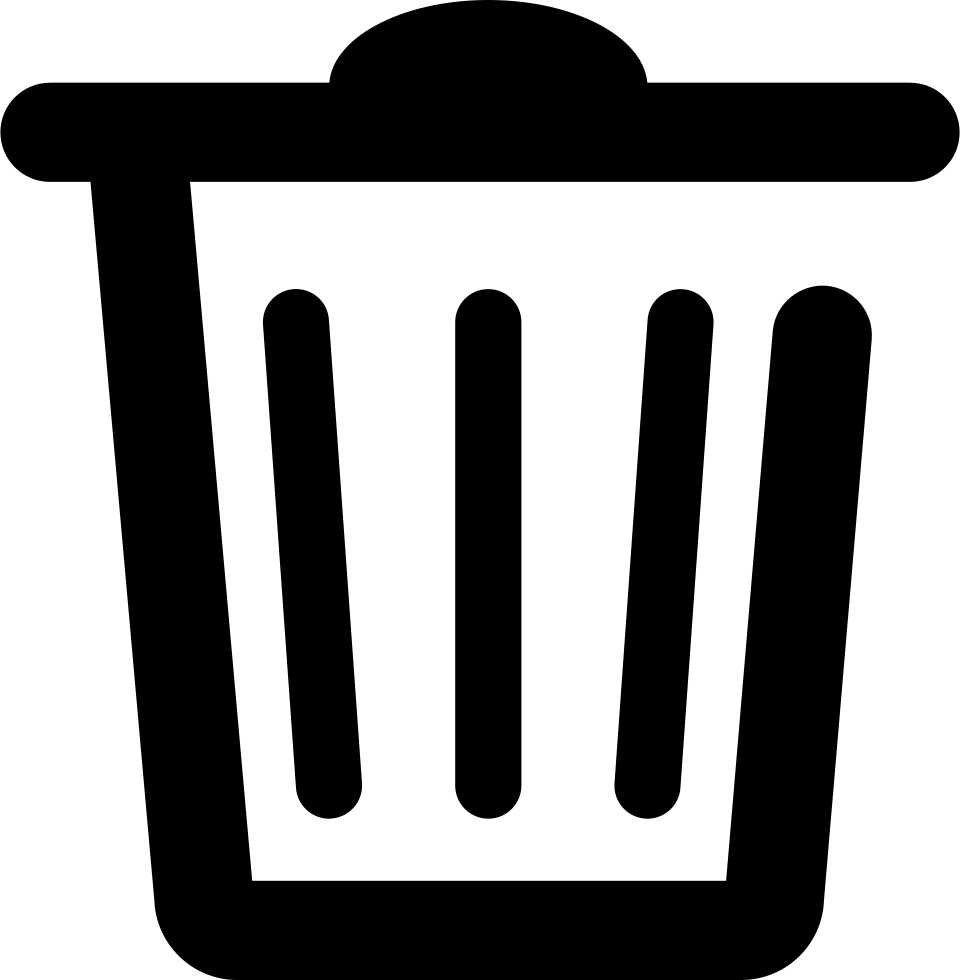
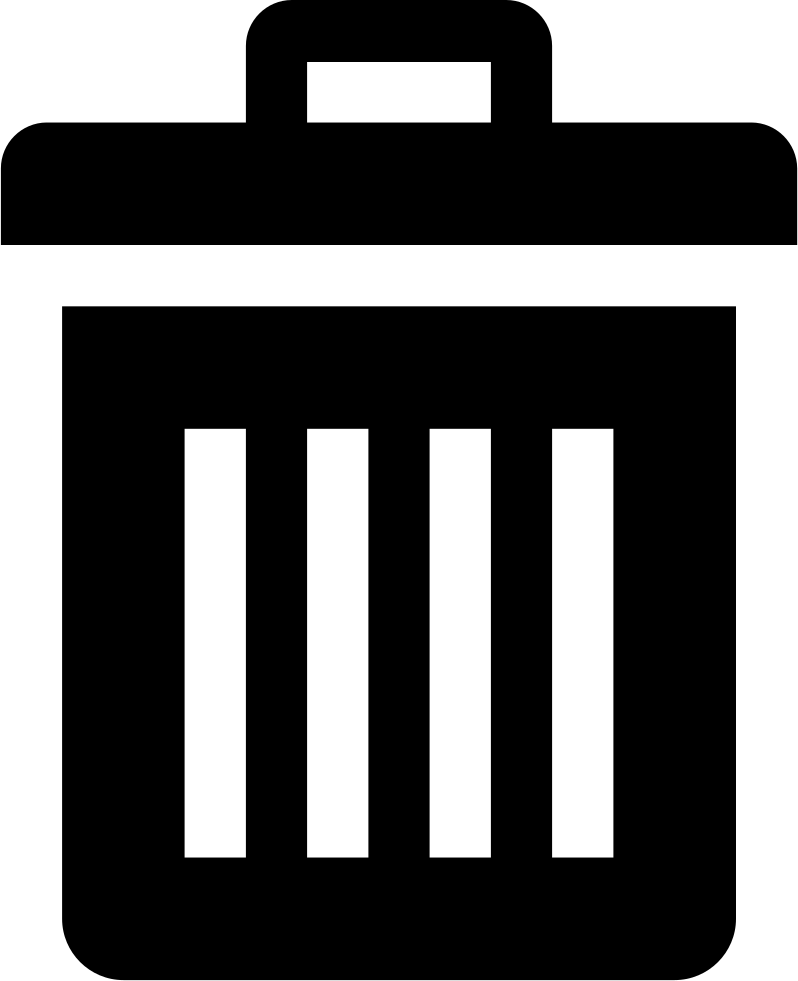
Мелкие правки в Painter, новая иконка для clear button, пофиксил colorgenerator, добавил свойство anchor всем создающимся кнопкам в buttonfactory

diff --git a/ChartWorld/UI/ChartWindow.Painter.cs b/ChartWorld/UI/ChartWindow.Painter.cs
@@ -27,6 +27,13 @@ namespace ChartWorld.UI
             Alignment = StringAlignment.Center
         };
 
+        private static readonly StringFormat VerticalFormat = new()
+        {
+            LineAlignment = StringAlignment.Center,
+            Alignment = StringAlignment.Center,
+            FormatFlags = StringFormatFlags.DirectionVertical
+        };
+
         private static Color[] _pieColors;
         private static Color[] _barColors;
         private const int BarChartMarkCount = 6;
@@ -40,9 +47,7 @@ namespace ChartWorld.UI
                     break;
                 case PieChart chart:
                     PaintPieChart(chart, entity.Size, entity.Location);
-                    break;
-                default:
-                    throw new ArgumentException($"Unexpected entity type: {entity.GetType()}", nameof(entity));
+                    break; 
             }
 
             form.Invalidate();
@@ -62,48 +67,51 @@ namespace ChartWorld.UI
             var barWidth = chartSize.Width / items.Count / 3;
             var max = items.Max(x => x.Item2);
             var fontSizeMultiplier = chartSize.Width / (float) fullscreenChartSize.Width;
-            EnqueueAxisDrawing(chart.Data.Headers, size.Width / 100, chartSize.Height / BarChartMarkCount,
-                (int) max / BarChartMarkCount,
+            EnqueueAxisDrawing(chart.Data.Headers, size.Width / 100, (float) chartSize.Height / BarChartMarkCount,
+                (float) max / BarChartMarkCount,
                 chartStartPoint, chartBottomRight, chartTopLeft, fontSizeMultiplier);
             EnqueueBarsDrawing(items, SetColors(items.Count, ref _barColors), chartStartPoint.X + chartSize.Width / 20,
                 max,
                 barWidth, chartStartPoint, chartSize, fontSizeMultiplier);
         }
 
-        private static void EnqueueAxisDrawing(string[] headers, int markWidth, int markShift, int markShiftValue,
-            Point chartStart, Point chartBottomRight, Point chartTopLeft, float fontSizeMultiplier)
+        private static void EnqueueAxisDrawing(string[] headers, int markWidth, float markShift, float markShiftValue,
+            Point chartStartPoint, Point chartBottomRight, Point chartTopLeft, float fontSizeMultiplier)
         {
-            var font = new Font("Arial", DefaultFontForNumbers.Size * fontSizeMultiplier * 2);
-            ChartWindow.ToPaint.Enqueue(g => g.DrawLine(DefaultPen, chartStart, chartBottomRight));
-            ChartWindow.ToPaint.Enqueue(g => g.DrawLine(DefaultPen, chartStart, chartTopLeft));
+            var letterFont = new Font("Arial", DefaultFontForNumbers.Size * fontSizeMultiplier * 2);
+            var headerFont = new Font("Arial", DefaultFontForNumbers.Size * fontSizeMultiplier * 3,
+                FontStyle.Bold);
+            ChartWindow.ToPaint.Enqueue(g => g.DrawLine(DefaultPen, chartStartPoint, chartBottomRight));
+            ChartWindow.ToPaint.Enqueue(g => g.DrawLine(DefaultPen, chartStartPoint, chartTopLeft));
+            ChartWindow.ToPaint.Enqueue(g => g.DrawLine(DefaultPen, chartBottomRight, new Point(chartBottomRight.X, chartTopLeft.Y)));
             ChartWindow.ToPaint.Enqueue(g =>
             {
                 var horizontalHeader = headers[0];
-                var textSize = g.MeasureString(horizontalHeader, font);
-                g.DrawString(horizontalHeader, font,
+                var textSize = g.MeasureString(horizontalHeader, headerFont);
+                g.DrawString(horizontalHeader, headerFont,
                     Brushes.Black,
                     new Point(chartBottomRight.X - (int) textSize.Width,
                         chartBottomRight.Y + (int) textSize.Height / 2));
             });
             var markValue = markShiftValue;
-            for (var i = 1; i < BarChartMarkCount; i++)
+            for (var i = 1; i < BarChartMarkCount + 1; i++)
             {
                 var iValue = i;
-                var valAsStr = markValue.ToString(CultureInfo.InvariantCulture);
+                var valAsStr = ((int)markValue).ToString(CultureInfo.InvariantCulture);
                 ChartWindow.ToPaint.Enqueue(g =>
                 {
-                    var textSize = g.MeasureString(valAsStr, font);
-                    var yLocation = chartStart.Y - markShift * iValue;
-                    g.DrawString(valAsStr, font, BlackSolidBrush,
-                        new PointF(chartStart.X - markWidth - textSize.Width / 2, yLocation),
+                    var textSize = g.MeasureString(valAsStr, letterFont);
+                    var yLocation = chartStartPoint.Y - markShift * iValue;
+                    g.DrawString(valAsStr, letterFont, BlackSolidBrush,
+                        new PointF(chartBottomRight.X + markWidth + textSize.Width / 2, yLocation),
                         StringFormat);
                     g.DrawLine(DefaultPen,
-                        new Point(chartStart.X - markWidth / 2, yLocation),
-                        new Point(chartStart.X + markWidth / 2, yLocation));
-                    var startPoint = new Point(chartStart.X + markWidth / 2 + 2, yLocation);
+                        new PointF(chartStartPoint.X - markWidth / 2, yLocation),
+                        new PointF(chartStartPoint.X + markWidth / 2, yLocation));
+                    var startPoint = new PointF(chartStartPoint.X + markWidth / 2 + 2, yLocation);
                     if (iValue == BarChartMarkCount)
-                        startPoint.X = chartStart.X;
-                    g.DrawLine(DottedPen, startPoint, new Point(chartBottomRight.X, yLocation));
+                        startPoint.X = chartStartPoint.X;
+                    g.DrawLine(DottedPen, startPoint, new PointF(chartBottomRight.X, yLocation));
                 });
                 markValue += markShiftValue;
             }
@@ -112,7 +120,7 @@ namespace ChartWorld.UI
         private static void EnqueueBarsDrawing(List<(string, double)> items, Color[] colors, int shift, double max,
             int barWidth, Point chartStart, Size chartSize, float fontSizeMultiplier)
         {
-            var font = new Font("Arial", DefaultFontForLetters.Size * fontSizeMultiplier * 2);
+            var letterFont = new Font("Arial", DefaultFontForLetters.Size * fontSizeMultiplier * 3);
             var numberFont = new Font("Arial", DefaultFontForNumbers.Size * fontSizeMultiplier * 2);
             for (var i = 0; i < items.Count; i++)
             {
@@ -125,9 +133,9 @@ namespace ChartWorld.UI
                     var bar = new Rectangle(shiftValue, chartStart.Y - (int) barHeight, barWidth, (int) barHeight);
                     g.DrawRectangle(DefaultPen, bar);
                     g.FillRectangle(new SolidBrush(colors[iValue]), bar);
-                    var textSize = g.MeasureString(name, font);
-                    g.DrawString(name, font, BlackSolidBrush,
-                        new PointF(shiftValue + barWidth / 2, chartStart.Y + textSize.Height * 2), StringFormat);
+                    var textSize = g.MeasureString(name, letterFont, new PointF(0, 0), VerticalFormat);
+                    g.DrawString(name, letterFont, BlackSolidBrush,
+                        new PointF(shiftValue + barWidth / 2, chartStart.Y + textSize.Height * 0.65f), VerticalFormat);
                     var valAsStr = Math.Round(value, 2).ToString(CultureInfo.InvariantCulture);
                     textSize = g.MeasureString(valAsStr, numberFont);
                     g.DrawString(valAsStr, numberFont, BlackSolidBrush,
@@ -140,9 +148,10 @@ namespace ChartWorld.UI
 
         private static void PaintPieChart(PieChart chart, Size size, Point location)
         {
-            var multiplier = ScreenSize.Width / (float) ScreenSize.Width / 2;
+            var fullscreenChartSize = new Size(ScreenSize.Width / 2, ScreenSize.Height / 2);
+            var multiplier = size.Width / (float) fullscreenChartSize.Width;
             var data = chart.PercentageData.GetOrderedItems();
-            var circleSize = new Size(ScreenSize.Width / 2, ScreenSize.Height / 2);
+            var circleSize = new Size(size.Width / 4 * 3, size.Width / 4 * 3);
             var boundingRectangle = new Rectangle(location, circleSize);
             EnqueuePieChartDrawing(data, boundingRectangle, size, location, multiplier);
         }

diff --git a/ChartWorld/UI/ChartWindow.ChartSettings.cs b/ChartWorld/UI/ChartWindow.ChartSettings.cs
@@ -22,12 +22,13 @@ namespace ChartWorld.UI
             Alignment = StringAlignment.Center
         };
 
+        private const string SelectFromDrivePrompt = "... Select .csv from drive";
+
         private static ComboBox _chartTypeDdl;
         private static ComboBox _chartDataDdl;
         private static ChartWindow _form;
         private static Workspace _workspace;
         private static ChartData _selectedData;
-        private static Type _selectedChartType;
 
         public static void InitializeStartButtons(ChartWindow form, Workspace workspace)
         {
@@ -44,7 +45,6 @@ namespace ChartWorld.UI
             {
                 InitializeChartDataSelection,
                 InitializeChartTypeSelection,
-                // InitializeChartDataSelectionFromDrive
             };
             ControlButtons.Add(ButtonsFactory.CreateOpenButton(
                 form, ControlButtons, initializingActions));
@@ -52,43 +52,9 @@ namespace ChartWorld.UI
                 form.Controls.Add(button);
         }
 
-        // private static void InitializeChartDataSelectionFromDrive()
-        // {
-        //     var chartDataSelectionButton = new Button();
-        //     chartDataSelectionButton.Text = $"Select .csv from drive";
-        //     chartDataSelectionButton.Location = new Point(_chartDataDdl.Location.X,
-        //         _chartDataDdl.Location.Y + _chartDataDdl.Size.Height);
-        //     chartDataSelectionButton.Size = _chartDataDdl.Size;
-        //     chartDataSelectionButton.Click += ChartDataSelectionFromDriveButtonOnClick;
-        //     _form.Controls.Add(chartDataSelectionButton);
-        // }
-        
-        // private static void ChartDataSelectionFromDriveButtonOnClick(object sender, EventArgs e)
-        // {
-        //     var openFileDialog = new OpenFileDialog();
-        //     var result = openFileDialog.ShowDialog(); // Show the dialog.
-        //     if (result != DialogResult.OK) 
-        //         return;
-        //     
-        //     var path = openFileDialog.FileName;
-        //
-        //     _selectedData = new ChartData(path + _chartDataDdl.SelectedItem);
-        //
-        //     if (_selectedChartType is not null)
-        //     {
-        //         var chart = (IChart) Activator.CreateInstance(
-        //             GetSelectedChartType(), _selectedData);
-        //         WorkspaceEntityFactory.CreateWorkspaceEntity(chart, _form, _workspace, _chartTypeDdl);
-        //         var entity = _workspace.Add(_form.Controls, chart, new Size(500, 500), new Point(100, 100));
-        //         Painter.Paint(entity, _form);
-        //     }
-        //
-        //     _form.Update();
-        // }
-
         private static void InitializeChartDataSelection()
         {
-            _chartDataDdl = new ComboBox();
+            _chartDataDdl = new ComboBox { Anchor = AnchorStyles.Top | AnchorStyles.Left };
             _chartDataDdl.DropDownStyle = ComboBoxStyle.DropDownList;
             _chartDataDdl.Text = "Choose the stats you want to visualize";
             _chartDataDdl.Location = new Point(0, 0);
@@ -99,29 +65,33 @@ namespace ChartWorld.UI
                 .Select(name => name)
                 .Cast<object>()
                 .ToArray());
+            _chartDataDdl.Items.Add(SelectFromDrivePrompt);
             _chartDataDdl.SelectedValueChanged += ChartDataDdlSelectedItemChanged;
             _form.Controls.Add(_chartDataDdl);
         }
 
         private static void ChartDataDdlSelectedItemChanged(object sender, EventArgs e)
         {
-            _selectedData = new ChartData(ResourceExplorer.PathToResources + _chartDataDdl.SelectedItem);
-
-            if (_selectedChartType is not null)
+            if (_chartDataDdl.SelectedItem.ToString() == SelectFromDrivePrompt)
             {
-                var chart = (IChart) Activator.CreateInstance(
-                    GetSelectedChartType(), _selectedData);
-                WorkspaceEntityFactory.CreateWorkspaceEntity(chart, _form, _workspace, _chartTypeDdl);
-                var entity = _workspace.Add(_form.Controls, chart, new Size(500, 500), new Point(100, 100));
-                Painter.Paint(entity, _form);
+                var openFileDialog = new OpenFileDialog();
+                var result = openFileDialog.ShowDialog();
+                if (result != DialogResult.OK) 
+                    return;
+            
+                var path = openFileDialog.FileName;
+        
+                _selectedData = new ChartData(path);
             }
+            else
+                _selectedData = new ChartData(ResourceExplorer.PathToResources + _chartDataDdl.SelectedItem);
 
             _form.Update();
         }
 
         private static void InitializeChartTypeSelection()
         {
-            _chartTypeDdl = new ComboBox();
+            _chartTypeDdl = new ComboBox { Anchor = AnchorStyles.Top | AnchorStyles.Right };
             _chartTypeDdl.DropDownStyle = ComboBoxStyle.DropDownList;
             _chartTypeDdl.Text = "Choose the type of chart";
             _chartTypeDdl.Size = new Size(
@@ -138,7 +108,6 @@ namespace ChartWorld.UI
 
         private static void ChartTypeDdlSelectedItemChanged(object sender, EventArgs e)
         {
-            _selectedChartType = null;
             var chart = (IChart) Activator.CreateInstance(
                 GetSelectedChartType(), _selectedData);
             if (IsNullSelectedData())
@@ -163,7 +132,7 @@ namespace ChartWorld.UI
             ChartWindow.ToPaint.Enqueue(g =>
             {
                 var font = new Font("Arial", 10, FontStyle.Regular);
-                var errorMessage = "Error: Data for chart is not selected";
+                const string errorMessage = "Error: Data for chart is not selected";
                 var textSize = g.MeasureString(errorMessage, font);
                 g.DrawString(errorMessage, font,
                     new SolidBrush(Color.Black),
@@ -176,13 +145,10 @@ namespace ChartWorld.UI
 
         private static Type GetSelectedChartType()
         {
-            if (_selectedChartType is not null)
-                return _selectedChartType;
             var name = _chartTypeDdl.SelectedItem
                 .ToString()?.Replace(" ", string.Empty);
-            _selectedChartType = HelpMethods.GetImplementations(typeof(IChart))
+            return HelpMethods.GetImplementations(typeof(IChart))
                 .FirstOrDefault(t => t.Name == name);
-            return _selectedChartType;
         }
     }
 }

diff --git a/ChartWorld/Domain/ColorGenerator.cs b/ChartWorld/Domain/ColorGenerator.cs
@@ -6,8 +6,8 @@ namespace ChartWorld.Domain
 {
     public static class ColorGenerator
     {
-        private static readonly HashSet<string> UsedColors = new();
         private static readonly Random Random = new();
+        private static HashSet<string> _usedColors = new();
         
         private static readonly string[] ColorsAsString =
         {
@@ -39,29 +39,19 @@ namespace ChartWorld.Domain
 
         public static Color[] GetColors(int count)
         {
-            if (count > MaxColorsCount)
-            {
-                throw new ArgumentOutOfRangeException(
-                    $"Requested more colors than this method can provide: {UsedColors.Count}");
-            }
             var colors = new List<Color>();
             var i = 0;
             var converter = new ColorConverter();
-            while (i < count && UsedColors.Count != MaxColorsCount)
+            while (i < count && _usedColors.Count != MaxColorsCount)
             {
                 var index = Random.Next(0, MaxColorsCount);
-                if (!UsedColors.Contains(ColorsAsString[index]))
-                {
-                    colors.Add((Color) converter.ConvertFromString(ColorsAsString[index]));
-                    UsedColors.Add(ColorsAsString[index]);
-                    i++;
-                }
-            }
-
-            if (colors.Count == 0 || UsedColors.Count == MaxColorsCount && colors.Count < count)
-            {
-                throw new ArgumentOutOfRangeException(
-                    $"All colors that this method can provide were used: {UsedColors.Count}");
+                if (_usedColors.Contains(ColorsAsString[index]))
+                    continue;
+                if (_usedColors.Count == MaxColorsCount)
+                    _usedColors = new HashSet<string>();
+                colors.Add((Color) converter.ConvertFromString(ColorsAsString[index]));
+                _usedColors.Add(ColorsAsString[index]);
+                i++;
             }
 
             return colors.ToArray();

diff --git a/ChartWorld/UI/ButtonsFactory.cs b/ChartWorld/UI/ButtonsFactory.cs
@@ -59,7 +59,8 @@ namespace ChartWorld.UI
                 Image = new Bitmap(ResourceExplorer.PathToImages + name),
                 Location = location,
                 Size = new Size(50, 50),
-                BackColor = Color.Transparent
+                BackColor = Color.Transparent,
+                Anchor = AnchorStyles.Top
             };
         }
     }
